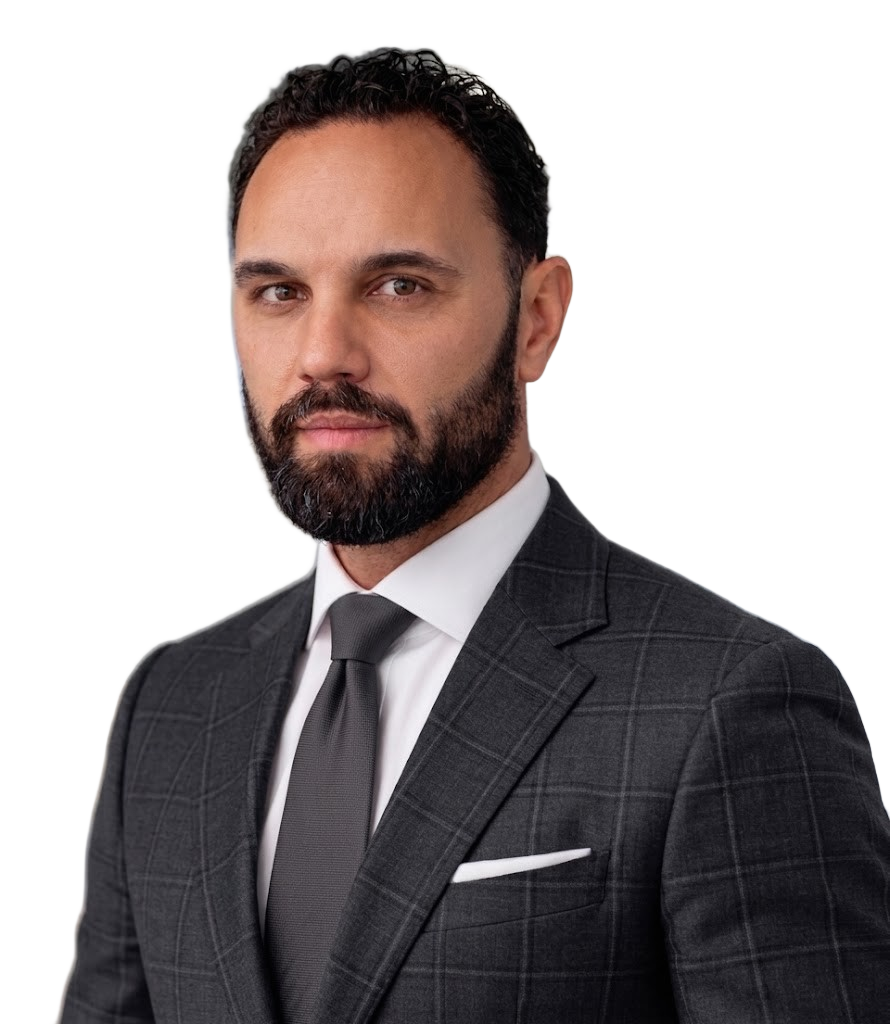
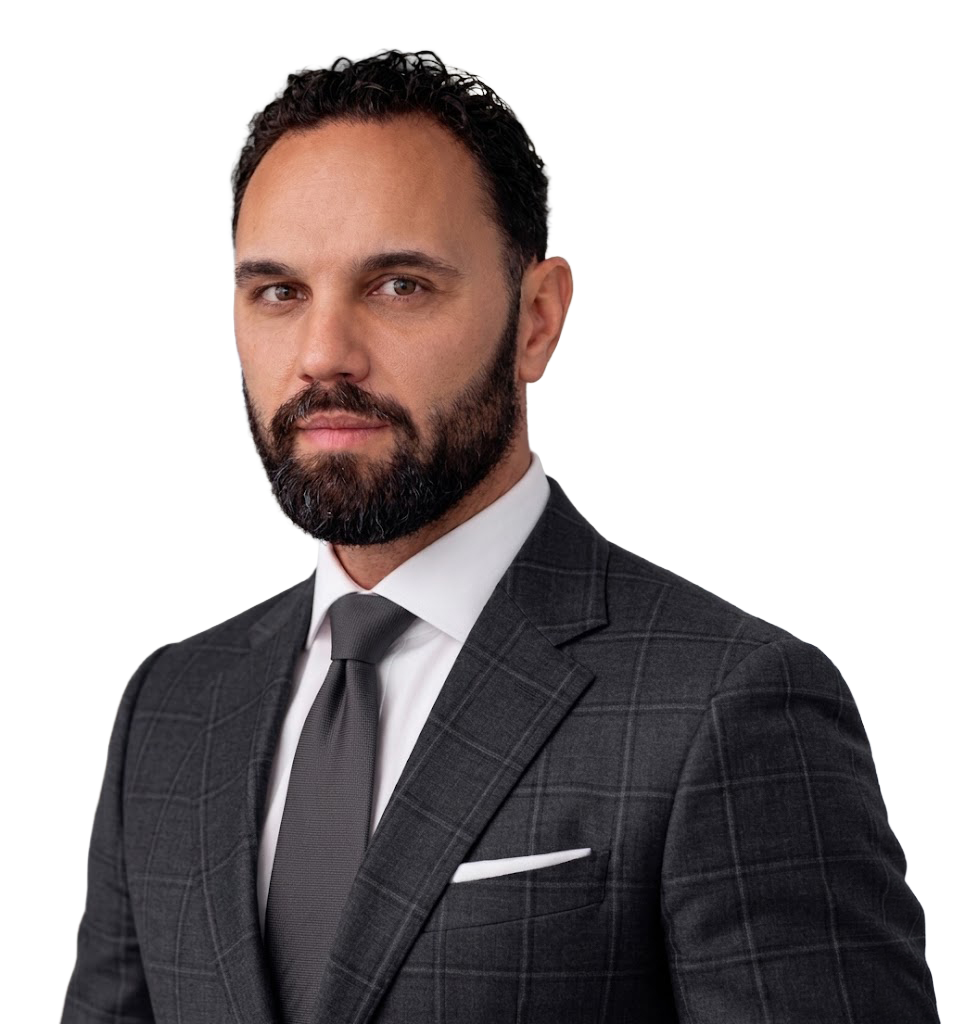
Nauja portreto versija ir footerio atskyrimo linija
Portretas:
- Pakeista i svaresne, geriau apdorota versija. Ji jau buvo iskirpta
  (alfa kanalas, 50,7% permatomu tasku), todel fono salinti nereikejo -
  tik isvaliau RGB po permatomais taskais, kad failas butu mazesnis.
- Naujas kadras platesnis (970x1024 vietoj 890x1024), todel tame paciame
  plotyje Aurimas atrodytu mazesnis. Rodomas plotis padidintas
  440 -> 480 px (mobilus 330 -> 360 px), kad vizualiai liktu kaip buvo.
- Sumazinta versija perdaryta i 720 px: mobiliame 360 px prie DPR 2
  reikia butent 720 px, o su 660 px narsykle imdavo pilna 820 KB faila.
  Dabar telefonas siunciasi 493 KB.

Footeris:
- Pridetas border-top. Pagrindiniame puslapyje virs footerio eina tokios
  pat tamsios spalvos sekcija, todel jie susiliedavo i viena ploksuma.
  Linija tokia pat kaip footerio viduje (--ink-line).

diff --git a/assets/css/style.css b/assets/css/style.css
@@ -420,7 +420,7 @@ figure { margin: 0; }
 .hero__portrait {
   position: relative;
   width: 100%;
-  max-width: 440px;
+  max-width: 480px;
   height: auto;
   object-fit: contain;
   object-position: bottom center;
@@ -434,7 +434,7 @@ figure { margin: 0; }
   .hero__copy { padding-bottom: 44px; }
   .hero__figure { min-height: 0; }
   .hero__figure::before { inset: 18% 0 0 0; }
-  .hero__portrait { max-width: 330px; }
+  .hero__portrait { max-width: 360px; }
 }
 
 /* --- 8. Bendra sekcijų antraštė ------------------------------------------- */
@@ -1203,7 +1203,15 @@ figure { margin: 0; }
 
 /* --- 21. Footer ----------------------------------------------------------- */
 
-.footer { background: var(--ink); color: var(--on-ink); padding-block: clamp(52px, 6vw, 80px) 32px; }
+.footer {
+  background: var(--ink);
+  color: var(--on-ink);
+  padding-block: clamp(52px, 6vw, 80px) 32px;
+  /* Atskiria footerį nuo viršuje esančios sekcijos. Svarbu pagrindiniame
+     puslapyje, kur virš jo eina tokios pat tamsios spalvos sekcija –
+     be linijos jie susilieja į vieną plotą. */
+  border-top: 1px solid var(--ink-line);
+}
 .footer__top {
   display: grid;
   grid-template-columns: minmax(0, 1.3fr) minmax(0, 1fr) minmax(0, 1fr);

diff --git a/index.html b/index.html
@@ -84,10 +84,10 @@
 
       <figure class="hero__figure">
         <img class="hero__portrait" src="assets/img/aurimas-petrikas.png"
-             srcset="assets/img/aurimas-petrikas-660.png 660w,
-                     assets/img/aurimas-petrikas.png 890w"
-             sizes="(max-width: 900px) 330px, 440px"
-             width="890" height="1024" fetchpriority="high"
+             srcset="assets/img/aurimas-petrikas-720.png 720w,
+                     assets/img/aurimas-petrikas.png 970w"
+             sizes="(max-width: 900px) 360px, 480px"
+             width="970" height="1024" fetchpriority="high"
              alt="Aurimas Petrikas, nekilnojamojo turto ekspertas">
       </figure>
 

diff --git a/README.md b/README.md
@@ -85,7 +85,7 @@ Aktyvus meniu punktas žymimas atributu `aria-current="page"`.
 
 | Failas | Kur naudojama |
 |---|---|
-| `aurimas-petrikas.png` (+ `-660.png`) | Pagrindinio puslapio portretas |
+| `aurimas-petrikas.png` (+ `-720.png`) | Pagrindinio puslapio portretas |
 | `klaipeda-uostas-biurai.jpg` | „NT sprendimai ne tik gyvenimui“ |
 | `kuo-galiu-padeti-hero.jpg` (+ `-800.jpg`) | „Kuo galiu padėti“ viršaus juosta |
 | `og-image.jpg` | Dalijimosi nuotrauka (Messenger, LinkedIn, Facebook) |
@@ -101,7 +101,7 @@ keturiuose puslapiuose kaip `og:image` ir `twitter:image`.
 > priverstinai atnaujinti per Facebook Sharing Debugger arba LinkedIn Post
 > Inspector.
 
-**Portretas** – 890 × 1024 px PNG su permatomu fonu (plius 660 px versija
+**Portretas** – 970 × 1024 px PNG su permatomu fonu (plius 720 px versija
 telefonams per `srcset`). Kadangi fonas permatomas, portretas savaime
 derinasi prie svetainės fono spalvos. Atspalvis reguliuojamas viena CSS
 eilute – `.hero__portrait { filter: … }`.
